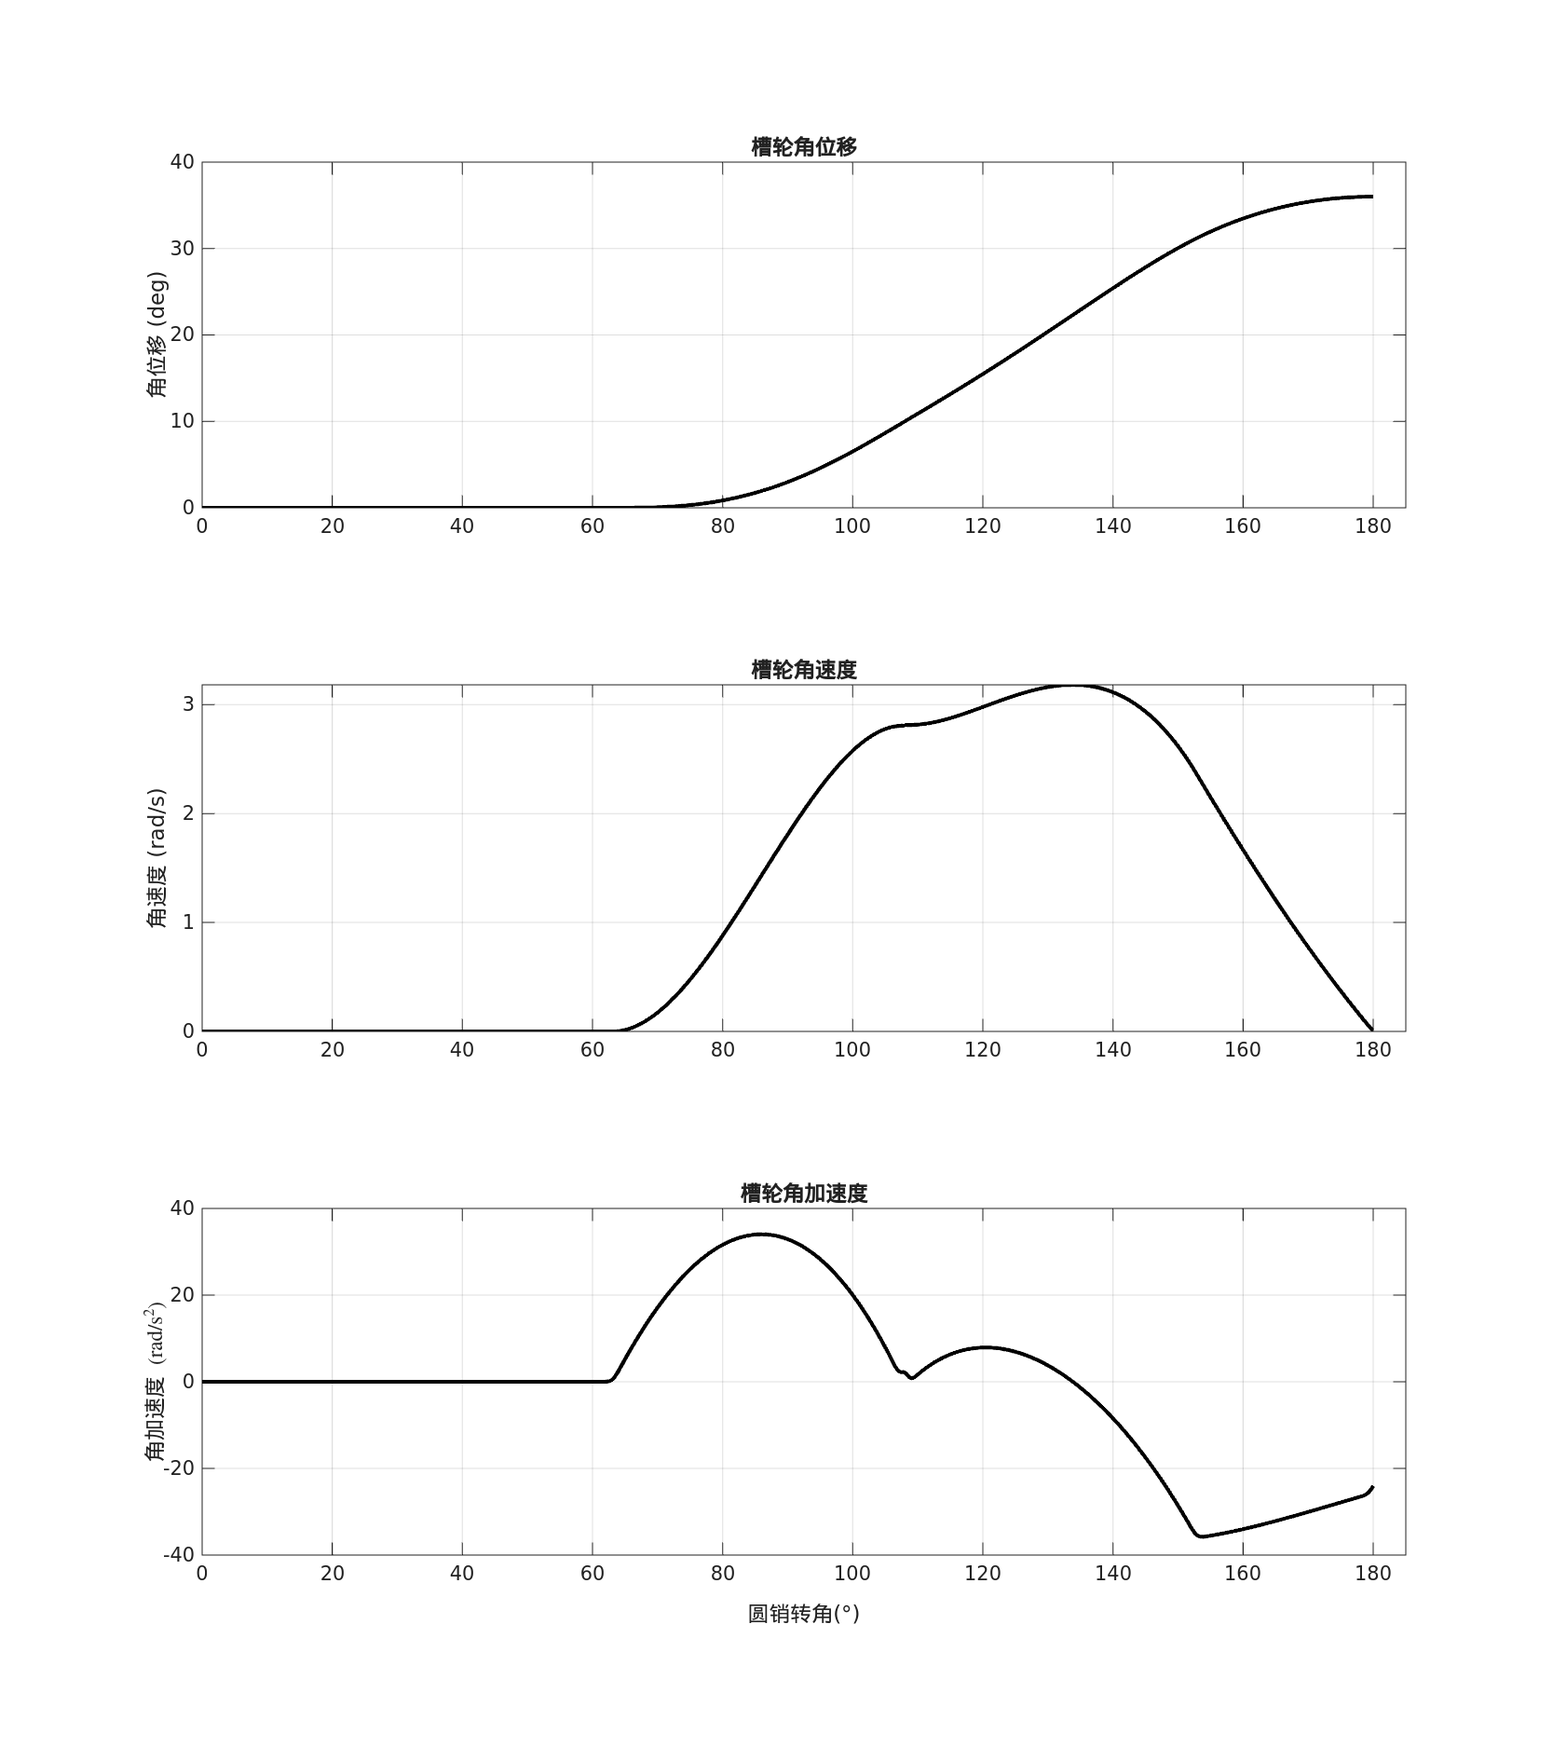
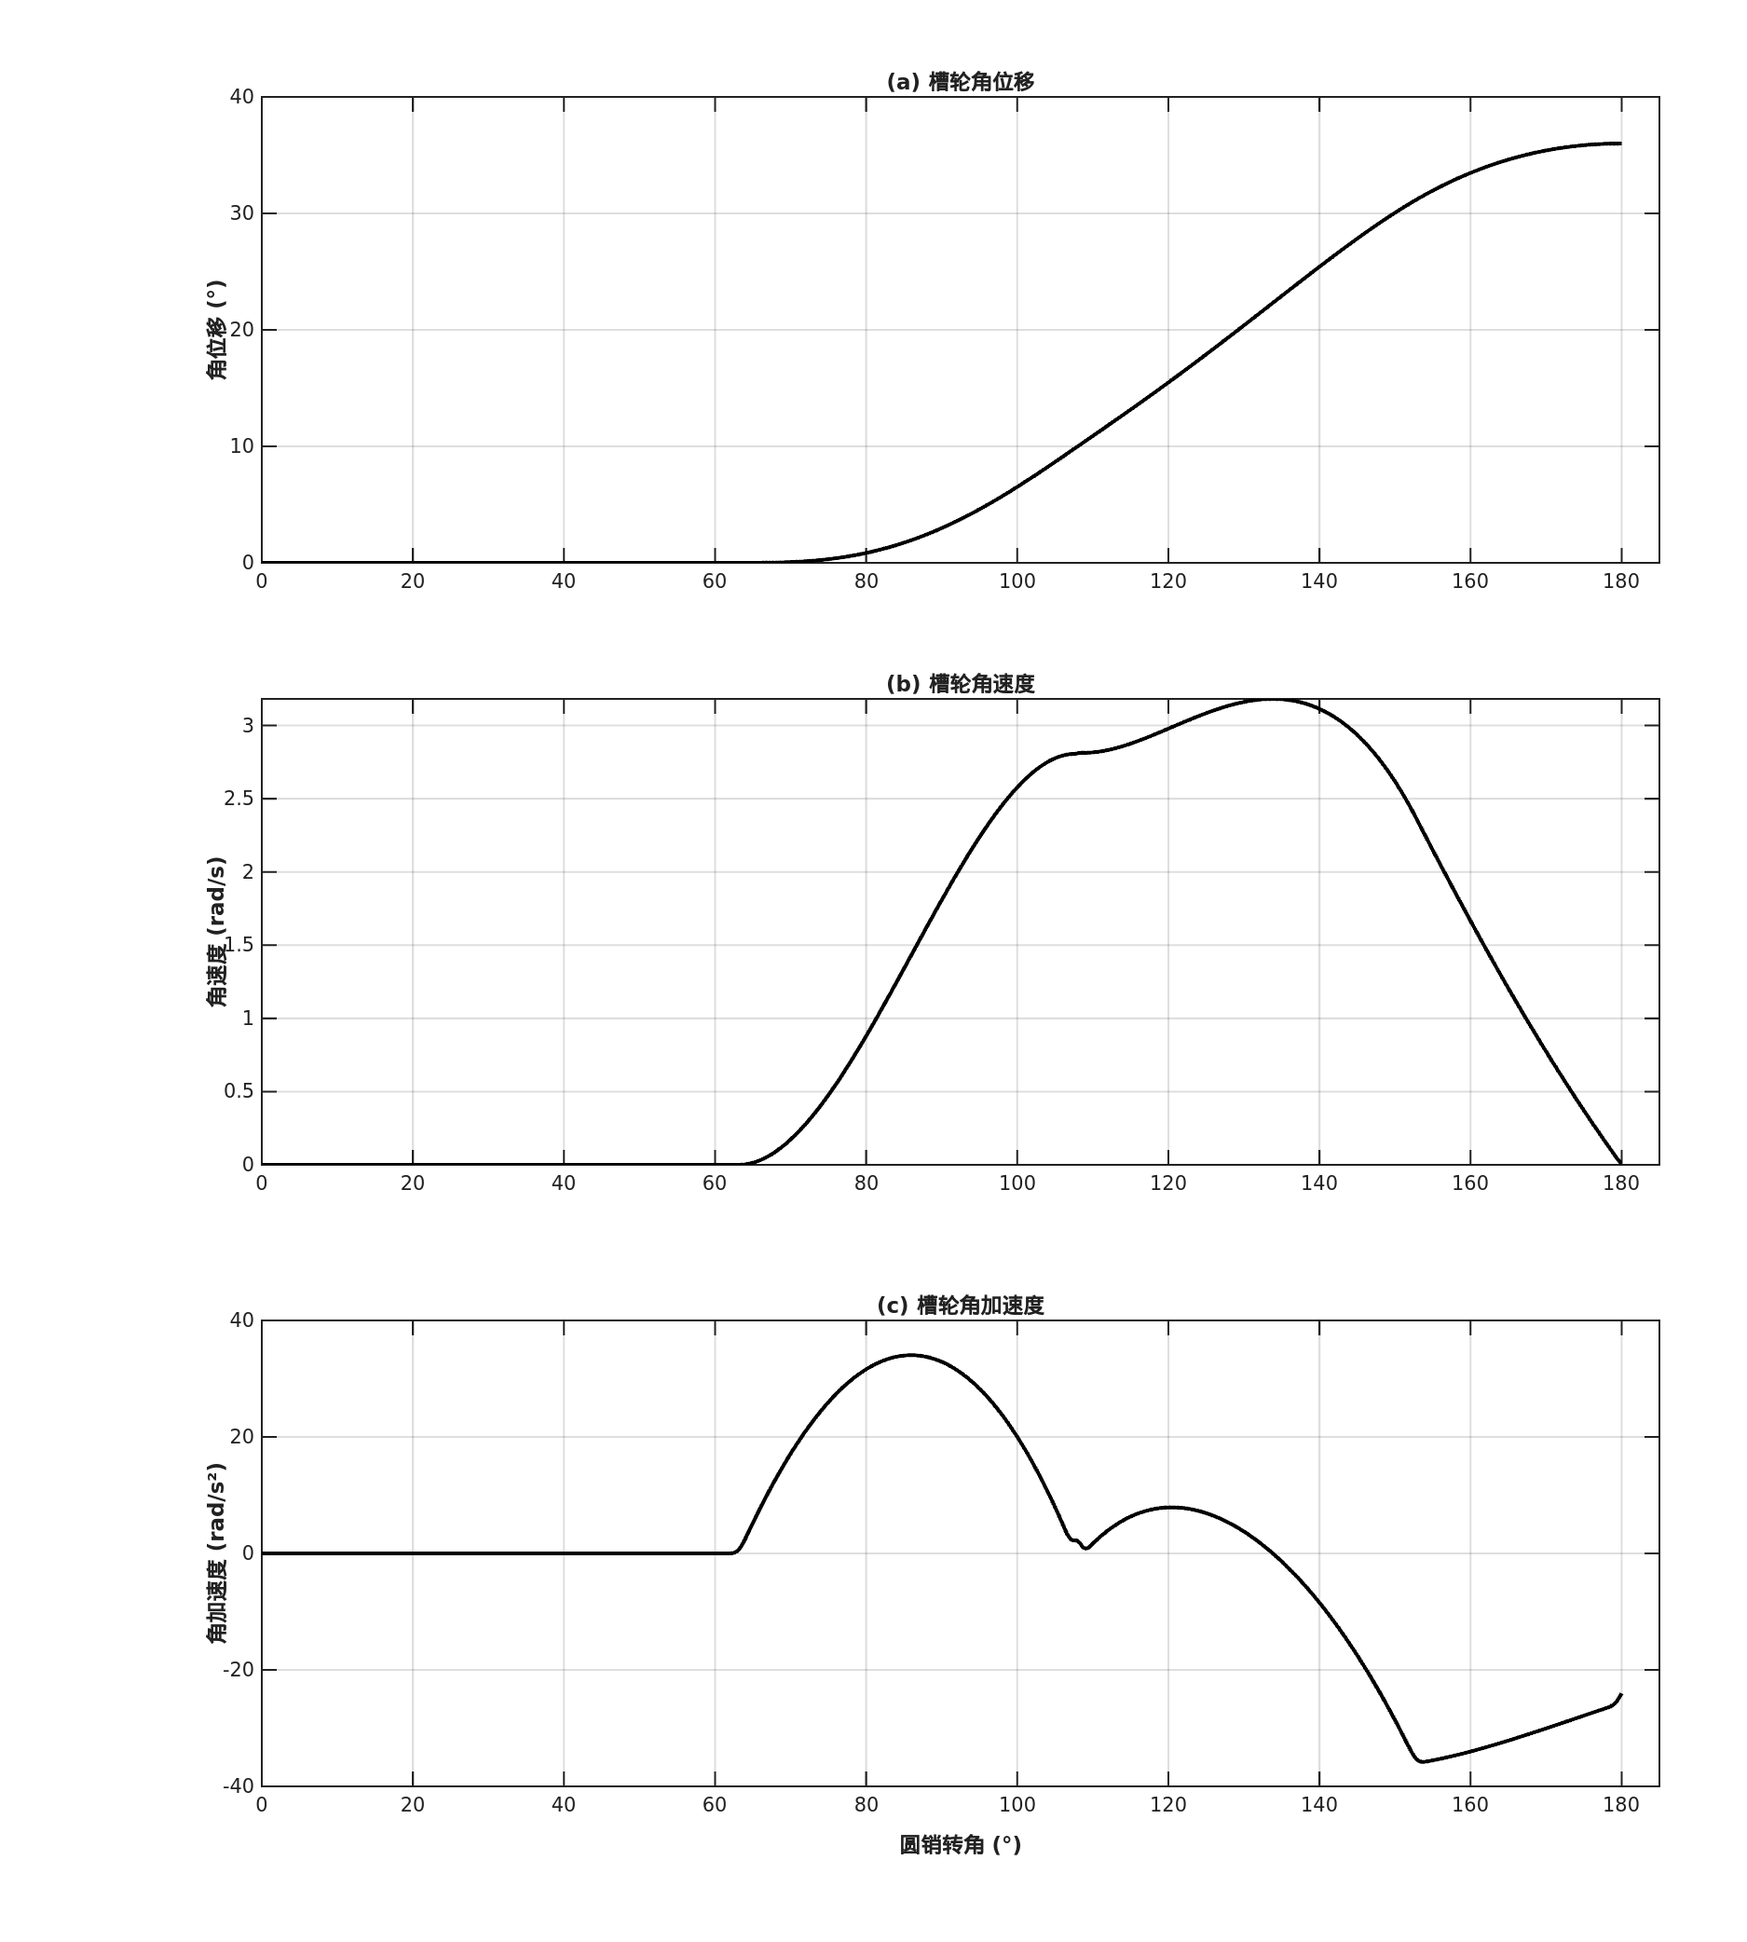
优化图片格式完成
- 标题字体14pt加粗，带(a)(b)(c)编号
- Y轴使用简短符号: J, φ, ω, α 避免重叠
- 收敛曲线Y轴数值除以10^5显示
- 对比图图例放图内，用text标注
- 子图手动定位，留足边距
- 添加regenerate_figures.m单独生成图片

diff --git a/run_optimization_web.m b/run_optimization_web.m
@@ -138,12 +138,12 @@ saveas(fig1, 'optimized_motion_web.png');
 fprintf('\n运动曲线已保存: optimized_motion_web.png\n');
 
 % 图2: GA收敛曲线
-fig2 = figure('Color','w','Position',[150 100 1100 700],'Name','GA收敛曲线');
+fig2 = figure('Color','w','Position',[150 100 1200 750],'Name','GA收敛曲线');
 
-positions = [0.08 0.58 0.38 0.35;   % (a)
-             0.55 0.58 0.38 0.35;   % (b)
-             0.08 0.12 0.38 0.35;   % (c)
-             0.55 0.12 0.38 0.35];  % (d)
+positions = [0.13 0.58 0.32 0.35;
+             0.58 0.58 0.32 0.35;
+             0.13 0.10 0.32 0.35;
+             0.58 0.10 0.32 0.35];
 
 for i = 1:NumRuns
     ax = subplot(2, 2, i);
@@ -152,7 +152,7 @@ for i = 1:NumRuns
         plot(h.gen, h.cost/1e5, 'k-', 'LineWidth', 1.5);
     end
     xlabel('迭代次数', 'FontSize', labelFontSize, 'FontWeight', 'bold');
-    ylabel('目标函数值 (×10⁵)', 'FontSize', labelFontSize, 'FontWeight', 'bold');
+    ylabel('J (×10⁵)', 'FontSize', labelFontSize, 'FontWeight', 'bold');
     title(sprintf('(%c) 第%d次优化', 'a'+i-1, i), 'FontSize', titleFontSize, 'FontWeight', 'bold');
     grid on; xlim([0 MaxGen]);
     set(ax, 'FontSize', tickFontSize, 'LineWidth', 1);
@@ -168,42 +168,44 @@ fprintf('\n正在生成对比图...\n');
 orig_params = [7.5, 40, -30, 9];
 [~, orig_result] = geneva_objective(orig_params, true);
 
-fig3 = figure('Color','w','Position',[200 100 900 1000],'Name','优化前后对比');
+fig3 = figure('Color','w','Position',[200 100 1000 1000],'Name','优化前后对比');
 
 ax1 = subplot(3,1,1);
 plot(orig_result.Plot_X, orig_result.Phi_Plot, 'b--', 'LineWidth', 1.5); hold on;
 plot(best_result.Plot_X, best_result.Phi_Plot, 'r-', 'LineWidth', 2); hold off;
-ylabel('角位移 (°)', 'FontSize', labelFontSize, 'FontWeight', 'bold');
+ylabel('φ (°)', 'FontSize', labelFontSize, 'FontWeight', 'bold');
 title('(a) 槽轮角位移对比', 'FontSize', titleFontSize, 'FontWeight', 'bold');
 grid on; xlim([0 max(best_result.Plot_X)+5]);
-text(10, max(best_result.Phi_Plot)*0.85, '— 优化后', 'Color', 'r', 'FontSize', 11, 'FontWeight', 'bold');
-text(10, max(best_result.Phi_Plot)*0.65, '-- 优化前', 'Color', 'b', 'FontSize', 11, 'FontWeight', 'bold');
+ylim_val = ylim;
+text(15, ylim_val(2)*0.9, '— 优化后', 'Color', 'r', 'FontSize', 11, 'FontWeight', 'bold');
+text(15, ylim_val(2)*0.75, '-- 优化前', 'Color', 'b', 'FontSize', 11, 'FontWeight', 'bold');
 set(ax1, 'FontSize', tickFontSize, 'LineWidth', 1);
-set(ax1, 'Position', [0.15 0.71 0.80 0.24]);
+set(ax1, 'Position', [0.12 0.71 0.83 0.24]);
 
 ax2 = subplot(3,1,2);
 plot(orig_result.Plot_X, orig_result.Vel_S, 'b--', 'LineWidth', 1.5); hold on;
 plot(best_result.Plot_X, best_result.Vel_S, 'r-', 'LineWidth', 2); hold off;
-ylabel('角速度 (rad/s)', 'FontSize', labelFontSize, 'FontWeight', 'bold');
+ylabel('ω (rad/s)', 'FontSize', labelFontSize, 'FontWeight', 'bold');
 title('(b) 槽轮角速度对比', 'FontSize', titleFontSize, 'FontWeight', 'bold');
 grid on; xlim([0 max(best_result.Plot_X)+5]);
-text(10, max(best_result.Vel_S)*0.85, '— 优化后', 'Color', 'r', 'FontSize', 11, 'FontWeight', 'bold');
-text(10, max(best_result.Vel_S)*0.65, '-- 优化前', 'Color', 'b', 'FontSize', 11, 'FontWeight', 'bold');
+ylim_val = ylim;
+text(15, ylim_val(1) + (ylim_val(2)-ylim_val(1))*0.9, '— 优化后', 'Color', 'r', 'FontSize', 11, 'FontWeight', 'bold');
+text(15, ylim_val(1) + (ylim_val(2)-ylim_val(1))*0.75, '-- 优化前', 'Color', 'b', 'FontSize', 11, 'FontWeight', 'bold');
 set(ax2, 'FontSize', tickFontSize, 'LineWidth', 1);
-set(ax2, 'Position', [0.15 0.40 0.80 0.24]);
+set(ax2, 'Position', [0.12 0.40 0.83 0.24]);
 
 ax3 = subplot(3,1,3);
 plot(orig_result.Plot_X, orig_result.Acc_S, 'b--', 'LineWidth', 1.5); hold on;
 plot(best_result.Plot_X, best_result.Acc_S, 'r-', 'LineWidth', 2); hold off;
-ylabel('角加速度 (rad/s²)', 'FontSize', labelFontSize, 'FontWeight', 'bold');
-xlabel('圆销转角 (°)', 'FontSize', labelFontSize, 'FontWeight', 'bold');
+ylabel('α (rad/s²)', 'FontSize', labelFontSize, 'FontWeight', 'bold');
+xlabel('圆销转角 θ (°)', 'FontSize', labelFontSize, 'FontWeight', 'bold');
 title('(c) 槽轮角加速度对比', 'FontSize', titleFontSize, 'FontWeight', 'bold');
 grid on; xlim([0 max(best_result.Plot_X)+5]);
-ymax = max(abs([orig_result.Acc_S; best_result.Acc_S]));
-text(10, ymax*0.7, '— 优化后', 'Color', 'r', 'FontSize', 11, 'FontWeight', 'bold');
-text(10, ymax*0.4, '-- 优化前', 'Color', 'b', 'FontSize', 11, 'FontWeight', 'bold');
+ylim_val = ylim;
+text(145, ylim_val(1) + (ylim_val(2)-ylim_val(1))*0.92, '— 优化后', 'Color', 'r', 'FontSize', 11, 'FontWeight', 'bold');
+text(145, ylim_val(1) + (ylim_val(2)-ylim_val(1))*0.78, '-- 优化前', 'Color', 'b', 'FontSize', 11, 'FontWeight', 'bold');
 set(ax3, 'FontSize', tickFontSize, 'LineWidth', 1);
-set(ax3, 'Position', [0.15 0.08 0.80 0.24]);
+set(ax3, 'Position', [0.12 0.08 0.83 0.24]);
 
 saveas(fig3, 'optimization_compare_web.png');
 fprintf('对比图已保存: optimization_compare_web.png\n');

diff --git a/run_optimization.m b/run_optimization.m
@@ -174,12 +174,12 @@ saveas(fig1, 'optimized_motion.png');
 fprintf('\n运动曲线已保存: optimized_motion.png\n');
 
 % 图2: GA收敛曲线
-fig2 = figure('Color','w','Position',[150 100 1100 700],'Name','GA收敛曲线');
+fig2 = figure('Color','w','Position',[150 100 1200 750],'Name','GA收敛曲线');
 
-positions = [0.08 0.58 0.38 0.35;   % (a)
-             0.55 0.58 0.38 0.35;   % (b)
-             0.08 0.12 0.38 0.35;   % (c)
-             0.55 0.12 0.38 0.35];  % (d)
+positions = [0.13 0.58 0.32 0.35;
+             0.58 0.58 0.32 0.35;
+             0.13 0.10 0.32 0.35;
+             0.58 0.10 0.32 0.35];
 
 for i = 1:NumRuns
     ax = subplot(2,2,i);
@@ -188,7 +188,7 @@ for i = 1:NumRuns
         plot(h.gen, h.cost/1e5, 'k-', 'LineWidth', 1.5);
     end
     xlabel('迭代次数', 'FontSize', labelFontSize, 'FontWeight', 'bold');
-    ylabel('目标函数值 (×10⁵)', 'FontSize', labelFontSize, 'FontWeight', 'bold');
+    ylabel('J (×10⁵)', 'FontSize', labelFontSize, 'FontWeight', 'bold');
     title(sprintf('(%c) 第%d次优化', 'a'+i-1, i), 'FontSize', titleFontSize, 'FontWeight', 'bold');
     grid on; xlim([0 MaxGen]);
     set(ax, 'FontSize', tickFontSize, 'LineWidth', 1);
@@ -209,42 +209,44 @@ else
     [~, orig_result] = geneva_objective(orig_params, true);
 end
 
-fig3 = figure('Color','w','Position',[200 100 900 1000],'Name','优化前后对比');
+fig3 = figure('Color','w','Position',[200 100 1000 1000],'Name','优化前后对比');
 
 ax1 = subplot(3,1,1);
 plot(orig_result.Plot_X, orig_result.Phi_Plot, 'b--', 'LineWidth', 1.5); hold on;
 plot(best_result.Plot_X, best_result.Phi_Plot, 'r-', 'LineWidth', 2); hold off;
-ylabel('角位移 (°)', 'FontSize', labelFontSize, 'FontWeight', 'bold');
+ylabel('φ (°)', 'FontSize', labelFontSize, 'FontWeight', 'bold');
 title('(a) 槽轮角位移对比', 'FontSize', titleFontSize, 'FontWeight', 'bold');
 grid on; xlim([0 max(best_result.Plot_X)+5]);
-text(10, max(best_result.Phi_Plot)*0.85, '— 优化后', 'Color', 'r', 'FontSize', 11, 'FontWeight', 'bold');
-text(10, max(best_result.Phi_Plot)*0.65, '-- 优化前', 'Color', 'b', 'FontSize', 11, 'FontWeight', 'bold');
+ylim_val = ylim;
+text(15, ylim_val(2)*0.9, '— 优化后', 'Color', 'r', 'FontSize', 11, 'FontWeight', 'bold');
+text(15, ylim_val(2)*0.75, '-- 优化前', 'Color', 'b', 'FontSize', 11, 'FontWeight', 'bold');
 set(ax1, 'FontSize', tickFontSize, 'LineWidth', 1);
-set(ax1, 'Position', [0.15 0.71 0.80 0.24]);
+set(ax1, 'Position', [0.12 0.71 0.83 0.24]);
 
 ax2 = subplot(3,1,2);
 plot(orig_result.Plot_X, orig_result.Vel_S, 'b--', 'LineWidth', 1.5); hold on;
 plot(best_result.Plot_X, best_result.Vel_S, 'r-', 'LineWidth', 2); hold off;
-ylabel('角速度 (rad/s)', 'FontSize', labelFontSize, 'FontWeight', 'bold');
+ylabel('ω (rad/s)', 'FontSize', labelFontSize, 'FontWeight', 'bold');
 title('(b) 槽轮角速度对比', 'FontSize', titleFontSize, 'FontWeight', 'bold');
 grid on; xlim([0 max(best_result.Plot_X)+5]);
-text(10, max(best_result.Vel_S)*0.85, '— 优化后', 'Color', 'r', 'FontSize', 11, 'FontWeight', 'bold');
-text(10, max(best_result.Vel_S)*0.65, '-- 优化前', 'Color', 'b', 'FontSize', 11, 'FontWeight', 'bold');
+ylim_val = ylim;
+text(15, ylim_val(1) + (ylim_val(2)-ylim_val(1))*0.9, '— 优化后', 'Color', 'r', 'FontSize', 11, 'FontWeight', 'bold');
+text(15, ylim_val(1) + (ylim_val(2)-ylim_val(1))*0.75, '-- 优化前', 'Color', 'b', 'FontSize', 11, 'FontWeight', 'bold');
 set(ax2, 'FontSize', tickFontSize, 'LineWidth', 1);
-set(ax2, 'Position', [0.15 0.40 0.80 0.24]);
+set(ax2, 'Position', [0.12 0.40 0.83 0.24]);
 
 ax3 = subplot(3,1,3);
 plot(orig_result.Plot_X, orig_result.Acc_S, 'b--', 'LineWidth', 1.5); hold on;
 plot(best_result.Plot_X, best_result.Acc_S, 'r-', 'LineWidth', 2); hold off;
-ylabel('角加速度 (rad/s²)', 'FontSize', labelFontSize, 'FontWeight', 'bold');
-xlabel('圆销转角 (°)', 'FontSize', labelFontSize, 'FontWeight', 'bold');
+ylabel('α (rad/s²)', 'FontSize', labelFontSize, 'FontWeight', 'bold');
+xlabel('圆销转角 θ (°)', 'FontSize', labelFontSize, 'FontWeight', 'bold');
 title('(c) 槽轮角加速度对比', 'FontSize', titleFontSize, 'FontWeight', 'bold');
 grid on; xlim([0 max(best_result.Plot_X)+5]);
-ymax = max(abs([orig_result.Acc_S; best_result.Acc_S]));
-text(10, ymax*0.7, '— 优化后', 'Color', 'r', 'FontSize', 11, 'FontWeight', 'bold');
-text(10, ymax*0.4, '-- 优化前', 'Color', 'b', 'FontSize', 11, 'FontWeight', 'bold');
+ylim_val = ylim;
+text(145, ylim_val(1) + (ylim_val(2)-ylim_val(1))*0.92, '— 优化后', 'Color', 'r', 'FontSize', 11, 'FontWeight', 'bold');
+text(145, ylim_val(1) + (ylim_val(2)-ylim_val(1))*0.78, '-- 优化前', 'Color', 'b', 'FontSize', 11, 'FontWeight', 'bold');
 set(ax3, 'FontSize', tickFontSize, 'LineWidth', 1);
-set(ax3, 'Position', [0.15 0.08 0.80 0.24]);
+set(ax3, 'Position', [0.12 0.08 0.83 0.24]);
 
 saveas(fig3, 'optimization_compare.png');
 fprintf('对比图已保存: optimization_compare.png\n');

diff --git a/regenerate_figures.m b/regenerate_figures.m
@@ -46,12 +46,12 @@ saveas(fig1, 'optimized_motion.png');
 fprintf('图1已保存: optimized_motion.png\n');
 
 %% 图2: GA收敛曲线
-fig2 = figure('Color','w','Position',[150 100 1100 700],'Name','GA收敛曲线');
+fig2 = figure('Color','w','Position',[150 100 1200 750],'Name','GA收敛曲线');
 
-positions = [0.08 0.58 0.38 0.35;
-             0.55 0.58 0.38 0.35;
-             0.08 0.12 0.38 0.35;
-             0.55 0.12 0.38 0.35];
+positions = [0.13 0.58 0.32 0.35;
+             0.58 0.58 0.32 0.35;
+             0.13 0.10 0.32 0.35;
+             0.58 0.10 0.32 0.35];
 
 NumRuns = length(all_history);
 for i = 1:NumRuns
@@ -61,7 +61,7 @@ for i = 1:NumRuns
         plot(h.gen, h.cost/1e5, 'k-', 'LineWidth', 1.5);
     end
     xlabel('迭代次数', 'FontSize', labelFontSize, 'FontWeight', 'bold');
-    ylabel('目标函数值 (×10⁵)', 'FontSize', labelFontSize, 'FontWeight', 'bold');
+    ylabel('J (×10⁵)', 'FontSize', labelFontSize, 'FontWeight', 'bold');
     title(sprintf('(%c) 第%d次优化', 'a'+i-1, i), 'FontSize', titleFontSize, 'FontWeight', 'bold');
     grid on; xlim([0 MaxGen]);
     set(ax, 'FontSize', tickFontSize, 'LineWidth', 1);
@@ -72,42 +72,44 @@ saveas(fig2, 'ga_convergence.png');
 fprintf('图2已保存: ga_convergence.png\n');
 
 %% 图3: 优化前后对比
-fig3 = figure('Color','w','Position',[200 100 900 1000],'Name','优化前后对比');
+fig3 = figure('Color','w','Position',[200 100 1000 1000],'Name','优化前后对比');
 
 ax1 = subplot(3,1,1);
 plot(orig_result.Plot_X, orig_result.Phi_Plot, 'b--', 'LineWidth', 1.5); hold on;
 plot(best_result.Plot_X, best_result.Phi_Plot, 'r-', 'LineWidth', 2); hold off;
-ylabel('角位移 (°)', 'FontSize', labelFontSize, 'FontWeight', 'bold');
+ylabel('φ (°)', 'FontSize', labelFontSize, 'FontWeight', 'bold');
 title('(a) 槽轮角位移对比', 'FontSize', titleFontSize, 'FontWeight', 'bold');
 grid on; xlim([0 max(best_result.Plot_X)+5]);
-text(10, max(best_result.Phi_Plot)*0.85, '— 优化后', 'Color', 'r', 'FontSize', 11, 'FontWeight', 'bold');
-text(10, max(best_result.Phi_Plot)*0.65, '-- 优化前', 'Color', 'b', 'FontSize', 11, 'FontWeight', 'bold');
+ylim_val = ylim;
+text(15, ylim_val(2)*0.9, '— 优化后', 'Color', 'r', 'FontSize', 11, 'FontWeight', 'bold');
+text(15, ylim_val(2)*0.75, '-- 优化前', 'Color', 'b', 'FontSize', 11, 'FontWeight', 'bold');
 set(ax1, 'FontSize', tickFontSize, 'LineWidth', 1);
-set(ax1, 'Position', [0.15 0.71 0.80 0.24]);
+set(ax1, 'Position', [0.12 0.71 0.83 0.24]);
 
 ax2 = subplot(3,1,2);
 plot(orig_result.Plot_X, orig_result.Vel_S, 'b--', 'LineWidth', 1.5); hold on;
 plot(best_result.Plot_X, best_result.Vel_S, 'r-', 'LineWidth', 2); hold off;
-ylabel('角速度 (rad/s)', 'FontSize', labelFontSize, 'FontWeight', 'bold');
+ylabel('ω (rad/s)', 'FontSize', labelFontSize, 'FontWeight', 'bold');
 title('(b) 槽轮角速度对比', 'FontSize', titleFontSize, 'FontWeight', 'bold');
 grid on; xlim([0 max(best_result.Plot_X)+5]);
-text(10, max(best_result.Vel_S)*0.85, '— 优化后', 'Color', 'r', 'FontSize', 11, 'FontWeight', 'bold');
-text(10, max(best_result.Vel_S)*0.65, '-- 优化前', 'Color', 'b', 'FontSize', 11, 'FontWeight', 'bold');
+ylim_val = ylim;
+text(15, ylim_val(1) + (ylim_val(2)-ylim_val(1))*0.9, '— 优化后', 'Color', 'r', 'FontSize', 11, 'FontWeight', 'bold');
+text(15, ylim_val(1) + (ylim_val(2)-ylim_val(1))*0.75, '-- 优化前', 'Color', 'b', 'FontSize', 11, 'FontWeight', 'bold');
 set(ax2, 'FontSize', tickFontSize, 'LineWidth', 1);
-set(ax2, 'Position', [0.15 0.40 0.80 0.24]);
+set(ax2, 'Position', [0.12 0.40 0.83 0.24]);
 
 ax3 = subplot(3,1,3);
 plot(orig_result.Plot_X, orig_result.Acc_S, 'b--', 'LineWidth', 1.5); hold on;
 plot(best_result.Plot_X, best_result.Acc_S, 'r-', 'LineWidth', 2); hold off;
-ylabel('角加速度 (rad/s²)', 'FontSize', labelFontSize, 'FontWeight', 'bold');
-xlabel('圆销转角 (°)', 'FontSize', labelFontSize, 'FontWeight', 'bold');
+ylabel('α (rad/s²)', 'FontSize', labelFontSize, 'FontWeight', 'bold');
+xlabel('圆销转角 θ (°)', 'FontSize', labelFontSize, 'FontWeight', 'bold');
 title('(c) 槽轮角加速度对比', 'FontSize', titleFontSize, 'FontWeight', 'bold');
 grid on; xlim([0 max(best_result.Plot_X)+5]);
-ymax = max(abs([orig_result.Acc_S; best_result.Acc_S]));
-text(10, ymax*0.7, '— 优化后', 'Color', 'r', 'FontSize', 11, 'FontWeight', 'bold');
-text(10, ymax*0.4, '-- 优化前', 'Color', 'b', 'FontSize', 11, 'FontWeight', 'bold');
+ylim_val = ylim;
+text(145, ylim_val(1) + (ylim_val(2)-ylim_val(1))*0.92, '— 优化后', 'Color', 'r', 'FontSize', 11, 'FontWeight', 'bold');
+text(145, ylim_val(1) + (ylim_val(2)-ylim_val(1))*0.78, '-- 优化前', 'Color', 'b', 'FontSize', 11, 'FontWeight', 'bold');
 set(ax3, 'FontSize', tickFontSize, 'LineWidth', 1);
-set(ax3, 'Position', [0.15 0.08 0.80 0.24]);
+set(ax3, 'Position', [0.12 0.08 0.83 0.24]);
 
 saveas(fig3, 'optimization_compare.png');
 fprintf('图3已保存: optimization_compare.png\n');
